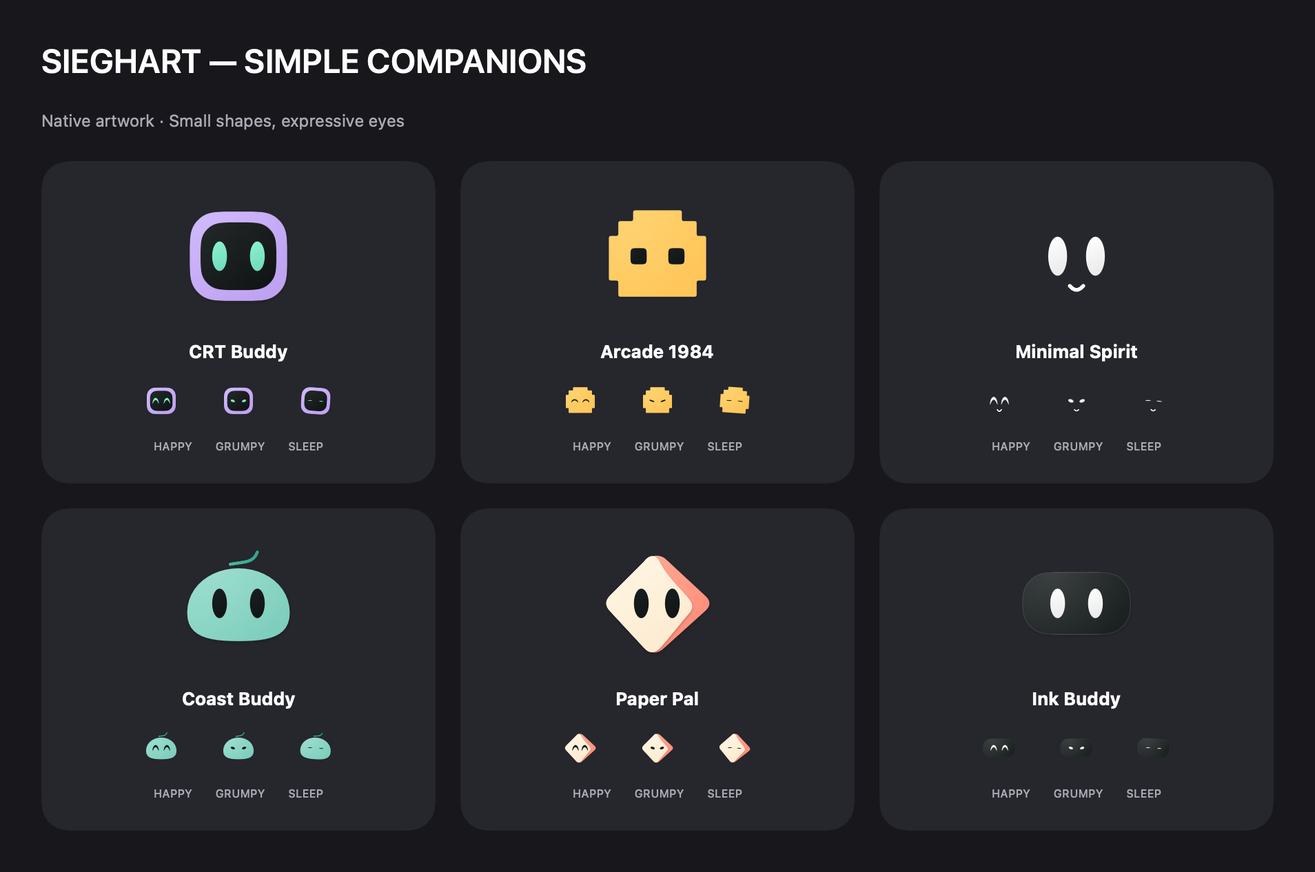
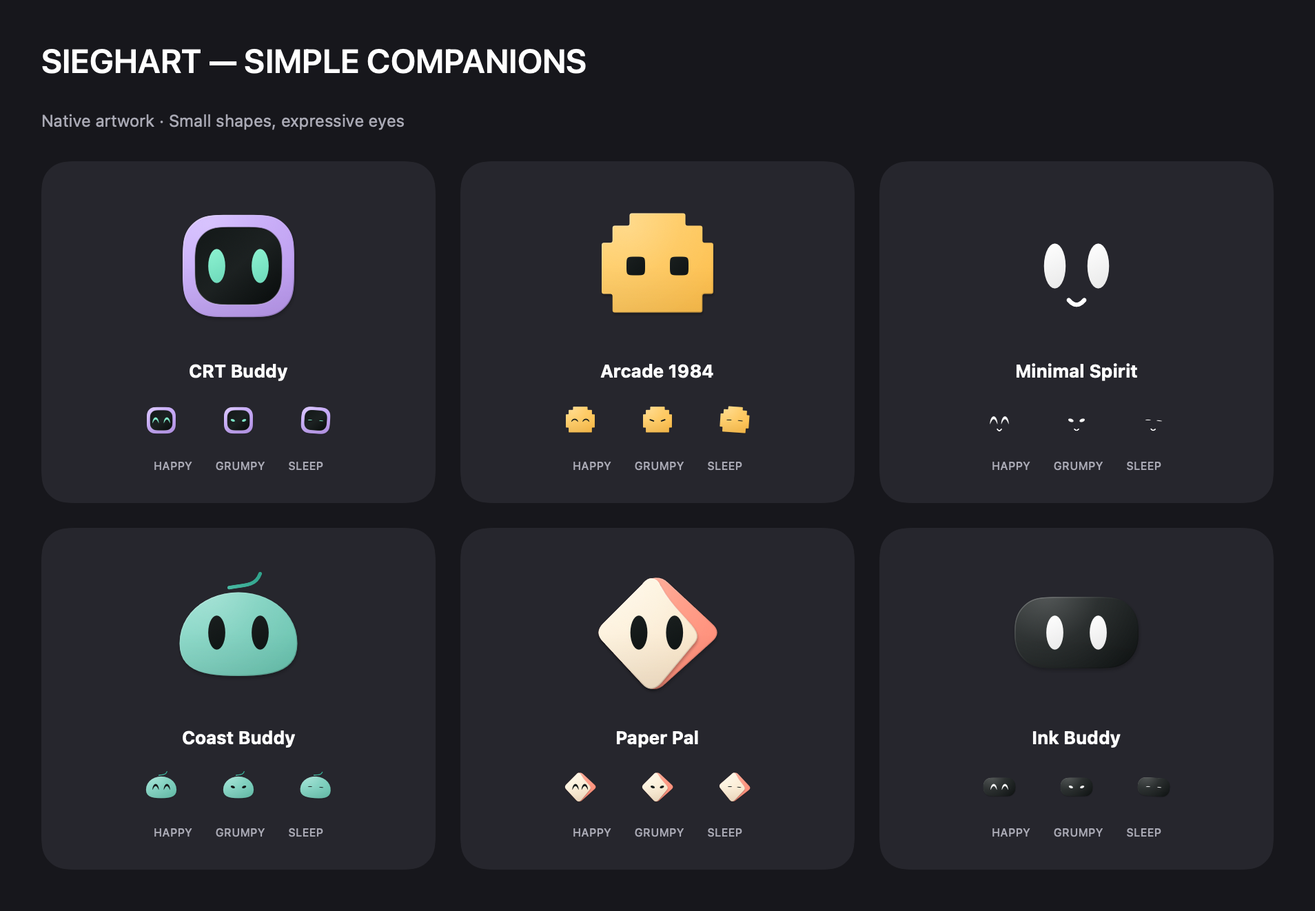
fix: preserve background activation and sharpen companion artwork

diff --git a/Sieghart/Sieghart/CompanionAvatars.swift b/Sieghart/Sieghart/CompanionAvatars.swift
@@ -119,6 +119,7 @@ struct CompanionMotion: Equatable {
 }
 
 struct CompanionFace: View {
+    var renderSize: CGFloat = 42
     var avatar: CompanionAvatar = .crtBuddy
     var blinking = false
     var focusing = false
@@ -147,7 +148,7 @@ struct CompanionFace: View {
     var body: some View {
         SimpleCompanionFace(avatar: avatar, openness: expression.open, joy: expression.joy, tilt: expression.tilt,
                             gaze: CGSize(width: min(4, max(-4, gaze.width)), height: min(3, max(-3, gaze.height))))
-            .frame(width: 42, height: 42)
+            .frame(width: renderSize, height: renderSize)
             .animation(animates && !reduceMotion ? .spring(response: 0.32, dampingFraction: 0.82) : nil, value: mood)
             .animation(animates && !reduceMotion ? .spring(response: 0.32, dampingFraction: 0.82) : nil, value: joyful)
             .animation(animates && !reduceMotion ? .spring(response: 0.32, dampingFraction: 0.85) : nil, value: gaze)
@@ -200,30 +201,32 @@ private struct SimpleCompanionFace: View, Animatable {
         }
     }
 
-    // Restrained matte lighting and layered edges give the simple shapes
-    // depth. The cream front and coral fold are separate curved paper planes.
+    // Draw light on the native paths at the final display size. Clipped edge
+    // shading gives a matte rounded surface without enlarging a small canvas.
     private func fillShell(_ path: Path, in context: GraphicsContext, colors: [Color], shadow: CGFloat = 1.2) {
         context.drawLayer { layer in
-            layer.addFilter(.shadow(color: .black.opacity(colorScheme == .dark ? 0.18 : 0.07), radius: shadow, x: 0.4, y: 1.1))
+            layer.addFilter(.shadow(color: .black.opacity(colorScheme == .dark ? 0.25 : 0.10), radius: shadow, x: 0.4, y: 1.4))
             layer.fill(path, with: .linearGradient(Gradient(colors: colors), startPoint: CGPoint(x: 20 + gaze.width, y: 15 + gaze.height), endPoint: CGPoint(x: 76, y: 85)))
         }
-        context.fill(path, with: .radialGradient(Gradient(colors: [.white.opacity(0.09), .clear]), center: CGPoint(x: 32 + gaze.width * 0.5, y: 28 + gaze.height * 0.5), startRadius: 2, endRadius: 55))
+        context.fill(path, with: .radialGradient(Gradient(colors: [.white.opacity(0.22), .white.opacity(0.06), .clear]), center: CGPoint(x: 29 + gaze.width * 0.5, y: 21 + gaze.height * 0.5), startRadius: 0, endRadius: 67))
+        var edge = context
+        edge.clip(to: path)
+        edge.stroke(path, with: .linearGradient(Gradient(colors: [.white.opacity(0.25), .clear, .black.opacity(0.18)]), startPoint: CGPoint(x: 22, y: 15), endPoint: CGPoint(x: 70, y: 83)), lineWidth: 1.3)
+        edge.fill(path, with: .linearGradient(Gradient(stops: [.init(color: .clear, location: 0.5), .init(color: .black.opacity(0.06), location: 1)]), startPoint: CGPoint(x: 48, y: 15), endPoint: CGPoint(x: 48, y: 81)))
     }
 
     private func drawBody(in context: GraphicsContext) {
         switch avatar {
         case .crtBuddy:
             let shell = Path(roundedRect: CGRect(x: 12, y: 15, width: 72, height: 66), cornerRadius: 21)
-            fillShell(shell, in: context, colors: [Color(red: 0.80, green: 0.70, blue: 0.99), Color(red: 0.74, green: 0.63, blue: 0.94)])
-            context.stroke(shell, with: .color(.white.opacity(0.15)), lineWidth: 0.5)
+            fillShell(shell, in: context, colors: [Color(red: 0.81, green: 0.71, blue: 1), Color(red: 0.72, green: 0.59, blue: 0.92)])
             let visor = Path(roundedRect: CGRect(x: 20, y: 23, width: 56, height: 50), cornerRadius: 17)
-            context.fill(visor, with: .linearGradient(Gradient(colors: [Color(red: 0.13, green: 0.15, blue: 0.15), Color(red: 0.065, green: 0.08, blue: 0.08)]), startPoint: CGPoint(x: 28, y: 25), endPoint: CGPoint(x: 68, y: 71)))
-            context.stroke(visor, with: .color(.black.opacity(0.13)), lineWidth: 0.65)
+            context.fill(visor, with: .linearGradient(Gradient(colors: [Color(red: 0.08, green: 0.10, blue: 0.10), Color(red: 0.11, green: 0.13, blue: 0.13), Color(red: 0.045, green: 0.06, blue: 0.06)]), startPoint: CGPoint(x: 28, y: 25), endPoint: CGPoint(x: 68, y: 71)))
+            context.stroke(visor, with: .linearGradient(Gradient(colors: [.black.opacity(0.32), .white.opacity(0.18)]), startPoint: CGPoint(x: 48, y: 23), endPoint: CGPoint(x: 48, y: 73)), lineWidth: 0.8)
         case .arcade1984:
             let points: [CGPoint] = [(30,14),(66,14),(66,22),(77,22),(77,33),(84,33),(84,66),(77,66),(77,78),(19,78),(19,66),(12,66),(12,33),(19,33),(19,22),(30,22)].map { CGPoint(x: $0.0, y: $0.1) }
             let shell = Self.roundedPolygon(points, radius: 1.5)
-            fillShell(shell, in: context, colors: [Color(red: 1, green: 0.81, blue: 0.39), Color(red: 1, green: 0.77, blue: 0.34)], shadow: 0.65)
-            context.stroke(shell, with: .color(.white.opacity(0.12)), lineWidth: 0.5)
+            fillShell(shell, in: context, colors: [Color(red: 1, green: 0.82, blue: 0.43), Color(red: 0.99, green: 0.74, blue: 0.29)], shadow: 0.65)
         case .minimalSpirit: break
         case .coastBuddy:
             var pebble = Path()
@@ -232,7 +235,7 @@ private struct SimpleCompanionFace: View, Animatable {
             pebble.addCurve(to: CGPoint(x: 86, y: 55), control1: CGPoint(x: 68, y: 22), control2: CGPoint(x: 86, y: 35))
             pebble.addCurve(to: CGPoint(x: 48, y: 76), control1: CGPoint(x: 86, y: 73), control2: CGPoint(x: 70, y: 76))
             pebble.addCurve(to: CGPoint(x: 10, y: 55), control1: CGPoint(x: 26, y: 76), control2: CGPoint(x: 10, y: 73))
-            fillShell(pebble, in: context, colors: [Color(red: 0.58, green: 0.86, blue: 0.80), Color(red: 0.48, green: 0.80, blue: 0.73)])
+            fillShell(pebble, in: context, colors: [Color(red: 0.57, green: 0.87, blue: 0.81), Color(red: 0.40, green: 0.75, blue: 0.67)])
             var curl = Path(); curl.move(to: CGPoint(x: 42, y: 19))
             curl.addCurve(to: CGPoint(x: 62, y: 10), control1: CGPoint(x: 53, y: 17), control2: CGPoint(x: 59, y: 18))
             context.stroke(curl, with: .linearGradient(Gradient(colors: [Color(red: 0.28, green: 0.72, blue: 0.63), Color(red: 0.19, green: 0.64, blue: 0.55)]), startPoint: CGPoint(x: 42, y: 19), endPoint: CGPoint(x: 62, y: 10)), style: StrokeStyle(lineWidth: 2.3, lineCap: .round))
@@ -260,12 +263,15 @@ private struct SimpleCompanionFace: View, Animatable {
             front.addQuadCurve(to: CGPoint(x: 13, y: 42), control: CGPoint(x: 7, y: 48))
             front.addLine(to: CGPoint(x: 38, y: 17)); front.addQuadCurve(to: CGPoint(x: 44, y: 13), control: CGPoint(x: 41, y: 13))
             front.closeSubpath()
-            fillShell(front, in: context, colors: [Color(red: 1, green: 0.96, blue: 0.88), Color(red: 0.99, green: 0.91, blue: 0.80)], shadow: 0.8)
-            context.stroke(front, with: .color(.white.opacity(0.14)), lineWidth: 0.5)
+            fillShell(front, in: context, colors: [Color(red: 1, green: 0.97, blue: 0.90), Color(red: 0.97, green: 0.88, blue: 0.76)], shadow: 0.8)
+            var foldEdge = Path()
+            foldEdge.move(to: CGPoint(x: 50, y: 18))
+            foldEdge.addCurve(to: CGPoint(x: 70, y: 43), control1: CGPoint(x: 56, y: 29), control2: CGPoint(x: 63, y: 35))
+            foldEdge.addCurve(to: CGPoint(x: 70, y: 57), control1: CGPoint(x: 75, y: 49), control2: CGPoint(x: 75, y: 52))
+            context.stroke(foldEdge, with: .linearGradient(Gradient(colors: [.white.opacity(0.28), Color(red: 0.67, green: 0.37, blue: 0.29).opacity(0.13)]), startPoint: CGPoint(x: 50, y: 18), endPoint: CGPoint(x: 70, y: 57)), lineWidth: 0.75)
         case .inkBuddy:
             let shell = Path(roundedRect: CGRect(x: 8, y: 25, width: 80, height: 46), cornerRadius: 20)
-            fillShell(shell, in: context, colors: [Color(red: 0.16, green: 0.18, blue: 0.18), Color(red: 0.10, green: 0.12, blue: 0.12)])
-            if colorScheme == .dark { context.stroke(shell, with: .color(.white.opacity(0.10)), lineWidth: 0.65) }
+            fillShell(shell, in: context, colors: [Color(red: 0.16, green: 0.18, blue: 0.18), Color(red: 0.065, green: 0.08, blue: 0.08)])
         }
     }
 
@@ -307,7 +313,7 @@ private struct SimpleCompanionFace: View, Animatable {
     private static var menuImages: [CompanionAvatar: NSImage] = [:]
     static func menuBarImage(for avatar: CompanionAvatar) -> NSImage? {
         if let cached = menuImages[avatar] { return cached }
-        let renderer = ImageRenderer(content: CompanionFace(avatar: avatar).environment(\.colorScheme, avatar == .minimalSpirit ? .light : .dark))
+        let renderer = ImageRenderer(content: CompanionFace(renderSize: 22, avatar: avatar).environment(\.colorScheme, avatar == .minimalSpirit ? .light : .dark))
         renderer.scale = 2
         guard let cg = renderer.cgImage else { return nil }
         let image = NSImage(cgImage: cg, size: NSSize(width: 22, height: 22))
@@ -336,9 +342,9 @@ struct CompanionCharacter: View {
             let reaction = joyful ? CompanionMood.happy : mood
             let time = previewTime ?? context.date.timeIntervalSinceReferenceDate
             let motion = CompanionMotion.sample(time: time, size: size, avatar: avatar, mood: reaction, listening: listening, strolling: strolling, animates: moves)
-            CompanionFace(avatar: avatar, focusing: focusing, joyful: joyful, gaze: moves ? gaze : .zero, eyeOpen: motion.eyeOpen,
+            CompanionFace(renderSize: size, avatar: avatar, focusing: focusing, joyful: joyful, gaze: moves ? gaze : .zero, eyeOpen: motion.eyeOpen,
                           listening: listening, motionTime: time, mood: reaction, animates: moves)
-                .scaleEffect(x: size / 42 * motion.scaleX, y: size / 42 * motion.scaleY)
+                .scaleEffect(x: motion.scaleX, y: motion.scaleY)
                 .rotation3DEffect(.degrees(moves ? -gaze.height * 1.5 : 0), axis: (x: 1, y: 0, z: 0), perspective: 0.35)
                 .rotation3DEffect(.degrees(moves ? gaze.width * 1.4 : 0), axis: (x: 0, y: 1, z: 0), perspective: 0.35)
                 .rotationEffect(.degrees(motion.rotation))

diff --git a/Sieghart/Tests/InteractionChecks.swift b/Sieghart/Tests/InteractionChecks.swift
@@ -202,6 +202,18 @@ struct InteractionChecks {
         precondition(notch.isVisible && activation.lastShortcutActivation != nil)
         notch.hide()
         activation.recordingShortcut = .companion
+        // Closing the settings surface during recording must restore both
+        // event backends. Feed its notification without opening a real window.
+        NotificationCenter.default.post(name: NSWindow.willCloseNotification, object: nil)
+        try await Task.sleep(for: .milliseconds(220))
+        precondition(activation.recordingShortcut == nil)
+        activation.receiveHotkey(.companion, eventTime: 210)
+        precondition(notch.isVisible, "Companion activation must survive closing the settings window")
+        notch.hide()
+        activation.receiveShortcutEvent(keyCode: ShortcutChord.companion.keyCode, flags: ShortcutChord.companion.flags, eventTime: 211)
+        precondition(notch.isVisible, "The monitor fallback must survive window closure too")
+        notch.hide()
+        activation.recordingShortcut = .companion
         activation.recoverShortcuts()
         precondition(activation.recordingShortcut == nil)
         precondition(activation.companionShortcut == .companion && activation.voiceShortcut == .voice)

diff --git a/Sieghart/Sieghart/WorkspaceView.swift b/Sieghart/Sieghart/WorkspaceView.swift
@@ -185,6 +185,8 @@ struct ContentView: View {
             Divider()
             PreferenceRow("Voice shortcut", detail: "Record keys, or press and release only modifiers such as Option + Command.") { ShortcutRecorder(action: .voice) }
             Text(activation.voiceShortcutStatus).font(.caption).foregroundStyle(CompanionStyle.muted).frame(maxWidth: .infinity, alignment: .leading)
+            Text("Close this window to keep Sieghart and its shortcuts in the menu bar. Choose Quit to stop the app.")
+                .font(.caption).foregroundStyle(CompanionStyle.muted)
             HStack {
                 if let date = activation.lastShortcutActivation {
                     Text("Last shortcut received at \(date.formatted(date: .omitted, time: .shortened))").font(.caption).foregroundStyle(CompanionStyle.muted)

diff --git a/Sieghart/Sieghart/ActivationCore.swift b/Sieghart/Sieghart/ActivationCore.swift
@@ -91,7 +91,9 @@ final class ActivationController: ObservableObject {
     }
 
     private func observeShortcutLifecycle(workspace suppliedWorkspace: NotificationCenter?) {
-        for name in [NSApplication.didBecomeActiveNotification, NSApplication.didResignActiveNotification] {
+        for name in [NSApplication.didBecomeActiveNotification, NSApplication.didResignActiveNotification,
+                     NSApplication.didHideNotification, NSApplication.didUnhideNotification,
+                     NSWindow.willCloseNotification] {
             appObservers.append(NotificationCenter.default.addObserver(forName: name, object: nil, queue: .main) { [weak self] _ in
                 MainActor.assumeIsolated { self?.scheduleShortcutRecovery() }
             })

diff --git a/Sieghart/Tests/CompanionPreview.swift b/Sieghart/Tests/CompanionPreview.swift
@@ -16,7 +16,7 @@ import UniformTypeIdentifiers
                     GridRow {
                         ForEach(Array(CompanionAvatar.allCases[row * 3 ..< row * 3 + 3])) { avatar in
                             VStack(spacing: 14) {
-                                CompanionCharacter(size: 94, avatar: avatar, animates: time != nil,
+                                CompanionCharacter(size: time == nil ? (dark ? 108 : 160) : 94, avatar: avatar, animates: time != nil,
                                     gaze: CGSize(width: sin((time ?? 0) * 1.3) * 3, height: cos((time ?? 0) * 1.1) * 1.5), mood: sleeping ? .asleep : .idle, previewTime: time)
                                 Text(avatar.name).font(.headline)
                                 HStack(spacing: 28) {

diff --git a/Sieghart/Sieghart/SieghartApp.swift b/Sieghart/Sieghart/SieghartApp.swift
@@ -2,6 +2,7 @@ import SwiftUI
 
 @main
 struct SieghartApp: App {
+    @NSApplicationDelegateAdaptor(ResidentAppDelegate.self) private var appDelegate
     @StateObject private var sensor: SensorViewModel
     @StateObject private var assistant: AssistantViewModel
     @StateObject private var notch: NotchWidgetController
@@ -40,6 +41,7 @@ struct SieghartApp: App {
         _preferences = StateObject(wrappedValue: preferences)
         _codexUsage = StateObject(wrappedValue: codexUsage)
         _aiUsage = StateObject(wrappedValue: aiUsage)
+        appDelegate.activation = activation
     }
 
     var body: some Scene {

diff --git a/Sieghart/Sieghart/AppLifecycle.swift b/Sieghart/Sieghart/AppLifecycle.swift
@@ -1,0 +1,12 @@
+import AppKit
+
+/// The window is a settings surface; activation belongs to the resident app.
+@MainActor
+final class ResidentAppDelegate: NSObject, NSApplicationDelegate {
+    var activation: ActivationController?
+
+    func applicationShouldTerminateAfterLastWindowClosed(_ sender: NSApplication) -> Bool {
+        activation?.recoverShortcuts()
+        return false
+    }
+}

diff --git a/ROADMAP.md b/ROADMAP.md
@@ -1,12 +1,12 @@
 # Sieghart roadmap
 
-Updated October 6, 2026. This is the current execution plan; older Obsidian checkpoints remain historical. The user authorizes reference-level functional coverage with better usability and an integrated companion. Swift Student Challenge remains the first delivery; the complete Mac utility product continues afterward.
+Updated October 7, 2026. This is the current execution plan; older Obsidian checkpoints remain historical. The user authorizes reference-level functional coverage with better usability and an integrated companion. Core Mac utilities take priority over additional integrations. Swift Student Challenge remains the first delivery; the complete Mac utility product continues afterward.
 
 ## Status and release gates
 
 - **Sprint 1:** foundation, timer persistence and notch geometry delivered; visual iteration continued in Sprint 2.
 - **Sprint 2:** published as `db2ea4f` — implementation closeout: six companions, nine poses, repeated-touch moods, focus configuration, compact island, celebration, voice acknowledgement, shortcut recovery, tools entry, Codex quotas, local token counters and separate spending ledger. Build/headless checks are evidence of implementation, not real-Mac acceptance.
-- **Sprint 3:** in progress. First slice implemented: initial six-avatar onboarding, one-time local AI monitoring consent, installed-provider detection, background refresh, live AI island and the full reference dashboard. Automatic model pricing/FX, exact chart details, island interaction corrections and the glass presentation with smoother avatars are also implemented. Voice app launch/search and billing imports remain next.
+- **Sprint 3:** in progress. First slice implemented: initial six-avatar onboarding, one-time local AI monitoring consent, installed-provider detection, background refresh, live AI island and the full reference dashboard. Automatic model pricing/FX, exact chart details, island interaction corrections, installed-app voice launch and the glass presentation with smoother avatars are also implemented. Browser search and billing imports remain next.
 - **Open acceptance:** SG-001 companion/voice shortcuts after Spaces/full-screen; real notch placement/animation; microphone permission/recognition. The assistant does not run the app or open Xcode.
 - **Calendar:** hidden at the user's request; repair and reintroduction in S5, not a current release gate.
 - **Costs:** recorded charges are actual user-entered expenses; token prices produce estimates. Official model price tables and dated USD/BRL FX adapters are implemented and verified against live public responses. They calculate API-equivalent estimates. Invoice imports remain planned.
@@ -84,6 +84,12 @@ Updated October 6, 2026. This is the current execution plan; older Obsidian chec
 - Repeated full-screen shortcut report remains open (SG-001). Menu-bar agent metadata, application-target Carbon dispatch and authorized event-tap health recovery address the setup. Actual input and visibility acceptance remains required.
 - Three additional issue photos archived with SHA-256 verification. README, production previews, bug tracker and Obsidian checkpoint updated. Sprint 3 remains active; Sprint 4 has not started.
 
+### Window-close activation and companion quality — October 7, 2026
+
+- The user clarified that “closed” means the red window-close button. A resident app delegate owns activation independently of the settings window and explicitly refuses last-window termination. Window-close/hide lifecycle recovery clears abandoned shortcut recording; Quit remains explicit termination. Isolated event tests cover both companion delivery routes after a simulated window close. Real window-close, voice and full-screen delivery remain SG-001 acceptance.
+- The artwork previously rendered on a 42-point Canvas and scaled up. Every companion now draws at its final display size; only the small breathing/squash transform remains. Diffuse light, clipped edge shading, a recessed visor and a lit paper fold improve matte depth while retaining the approved silhouettes/palette and all motion/accessibility behavior.
+- Main-window, island and menu production previews refreshed offscreen; the two latest avatar-quality photos are archived with hashes. Build, eight isolated groups and built-package checks passed without running the app or hardware.
+
 ### Next in Sprint 3
 
 1. Browser search through a deterministic action adapter. Installed-app voice launch is now implemented; physical speech/app-launch acceptance remains open.
@@ -104,6 +110,19 @@ Updated October 6, 2026. This is the current execution plan; older Obsidian chec
 | S5 | Calendar repair/reminders, notifications, selected-folder downloads, clipboard/shelf and core capture tools. |
 | S6 | Windows/Dock, keyboard and mouse modules, reversible preference changes and conflict handling. |
 | S7 | Maintenance, package/app updates, media/recording, advanced process/network/fan tools; module-specific verification. |
+
+## Companion usefulness after core utilities
+
+This is a future product direction, not an active integration sprint. First deliver and validate the utility sequence above.
+
+| Future companion role | Behavior | Dependency |
+| --- | --- | --- |
+| Quiet context | Express focus/break progress, AI working/completed and download completion through small gestures and optional brief messages. | Real timer, AI and download events; no fabricated activity. |
+| Quick actions | Companion entry to open an app, control audio, keep the Mac awake and revisit a completed task. | Verified utility actions and explicit user interaction. |
+| Calm reminders | Optional break/reminder nudges with quiet hours and a dismiss action; never starts focus automatically. | Reminder module and notification preferences. |
+| Optional GitHub | Selected-repository PR review requests and build results, with a direct link to the relevant item. Read-only first; opt-in and unavailable/offline states. | Core utilities complete, separate account consent and adapter. |
+
+GitHub makes sense as project context for people who develop software. It is optional and does not replace the primary Mac utilities or the offline companion journey. No GitHub connection is implemented or enabled in this round.
 
 ## Complete reference coverage — 77 modules
 

diff --git a/README.md b/README.md
@@ -36,7 +36,7 @@ Choose **Timer**, **Pomodoro** or **Stopwatch** in the app’s **Timers tab**, t
 
 ![The six Sieghart companions and their reactions](Sieghart/Design/Concepts/avatar-reactions-preview.png)
 
-*Production native shapes based on the user-approved Simple Companions board, with matte light, soft shadow and a curved coral paper fold. Eyes and expressions interpolate directly; no bitmap pose swapping.*
+*Production native shapes based on the user-approved Simple Companions board, with matte light, soft shadow and a curved coral paper fold. Each canvas draws at its final display size for sharp edges in both the app and island. Eyes and expressions interpolate directly; no bitmap pose swapping.*
 
 ![Simple companions in motion](Sieghart/Design/Concepts/simple-companions-motion.gif)
 
@@ -117,7 +117,7 @@ Select the **Sieghart** scheme and **My Mac**, then run. Configure signing if Xc
 
 The menu bar also provides access to the widget and app. In Activation, press a shortcut recorder and enter any key combination; release modifier-only keys to save. Companion and voice bindings can be disabled separately. Impact gestures are off by default.
 
-The main window can be closed while Sieghart remains in the menu bar. A listen-only session event tap now handles modifier gestures across apps and restarts after interruption; regular-key hotkeys keep the system global registration. An intermittent shortcut interruption is tracked in [SG-001](Sieghart/BUGS.md). Abandoned recording restores activation. Healthy global registrations stay active across app/Space changes; permission changes or failed delivery setup trigger recovery. With an existing keyboard grant, both global delivery paths work with duplicate suppression. The reported intermittent case still needs a physical Mac check.
+Closing the main window with its red button keeps Sieghart in the menu bar. An app delegate retains activation independently of the window and explicitly keeps the process running after the last window closes. Window closure cancels an unfinished shortcut recorder and recovers activation; **Quit** stops the app. A listen-only session event tap handles modifier gestures across apps and restarts after interruption; regular-key hotkeys keep the system global registration. An intermittent shortcut interruption is tracked in [SG-001](Sieghart/BUGS.md). Healthy global registrations stay active across app/Space changes; permission changes or failed delivery setup trigger recovery. With an existing keyboard grant, both global delivery paths work with duplicate suppression. Closing the actual window and using both bindings in other apps/full-screen still needs a physical Mac check.
 
 ## Voice and local data
 

diff --git a/Sieghart/Design/Concepts/avatar-simple-studies.md b/Sieghart/Design/Concepts/avatar-simple-studies.md
@@ -25,3 +25,10 @@ Method: built-in image generation, original image with no input reference. Outpu
 ### Prompt
 
 Create a NEW minimal character comparison board for Sieghart. Absolutely SIMPLE tiny desktop mascots, closer to a friendly pair of eyes in a clean small blob than a detailed robot. Flat 2D vector-like forms, no 3D rendering, no shading, no mechanical parts, no textures, no humanoid body, no articulated joints, no gloves, no shoes, no complex accessories. White/off-white page with six small characters in a clean 3 by 2 grid. Each main character uses ONE simple silhouette, TWO rounded expressive eyes, at most one tiny mouth. Maximum two flat colors per character. Let negative space dominate. Display one normal face and two tiny expression variations per cell; labels only exact names. CRT BUDDY: a very simple lavender rounded-square face with black interior and mint oval eyes, no antenna or buttons. ARCADE 1984: a very simple small amber stepped-square/pixel blob with two dark square eyes, no gamepad or controls. MINIMAL SPIRIT: just two black soft vertical oval eyes with a tiny curve, floating without a body. COAST BUDDY: a simple seafoam rounded pebble with two black oval eyes, one extremely small single-stroke cap curve as identity cue. PAPER PAL: a simple ivory/coral folded diamond silhouette with two black eyes, no origami complexity. INK BUDDY: a tiny charcoal rounded capsule with two white oval eyes, no bow tie or antenna. Friendly low-key expressions, mature minimal interface mascot, NOT toy robots, NOT Disney/Pixar, NOT fluffy 3D. Main characters should be small and readable at 24 pixels. Title 'SIEGHART — SIMPLE COMPANIONS'. Make clean polished honest minimalism, no app chrome or watermarks.
+
+
+## Final-size rendering — October 7, 2026
+
+The latest quality report identified softened edges and insufficient material depth. Production had been drawing every Canvas at 42 points and magnifying it. It now draws at the actual view size; the remaining scale transform is only small animated breath/squash. The same paths, palette, eye interpolation and motion remain. Diffuse top-left light, clipped directional edge shading, a recessed visor and a lit paper crease improve the matte finish on white and dark surfaces.
+
+The light board renders larger native heroes for close inspection; the same production views appear in the main app/island/menu previews. These are preview files outside app resources. No bitmap replacement or 3D rig is used.

diff --git a/Sieghart/README.md b/Sieghart/README.md
@@ -138,3 +138,12 @@ The audio checks use a mock backend and allocated sample buffers, covering the a
 
 
 After a CLI build, run `bash Sieghart/Tests/verify-built-app.sh /path/to/Sieghart.app` to check built privacy descriptions, agent metadata and signature without launching the app.
+
+
+## October 7 — Resident activation and native-size companion rendering
+
+Closing the main window with its red button must leave both shortcuts available. `ResidentAppDelegate` retains activation independently of the settings scene and explicitly keeps the process running after the last window closes. Window-close/hide recovery clears unfinished shortcut recording. Explicit Quit still terminates. Isolated tests post a close event and deliver companion activation through both routing backends; actual window closure and voice/full-screen acceptance stay open in SG-001. No background helper or login-item registration was introduced.
+
+The character Canvas previously drew at 42 points and then scaled to each display size. `CompanionFace.renderSize` now supplies the real size, including native menu icons. The animated wrapper only applies breathing/squash scale. Matte diffuse light, clipped edge shading, visor depth and the curved paper fold preserve the approved Simple Companions palette. Shared artwork updates onboarding, Appearance, menus and island. [Final-size depth preview](Design/Concepts/simple-companions-depth-preview.png).
+
+Universal signed build, built-package checks and eight isolated groups passed. Production artwork/screens and 20 fps motion were rendered offscreen. No app/Xcode window, sensor, microphone, system-audio capture or actual shortcut registration was started. Two user quality photos are retained in the issue archive. Core utilities remain ahead of future avatar/GitHub integrations; Sprint 3 stays active and Sprint 4 has not started.

diff --git a/Sieghart/Design/island-layout.md b/Sieghart/Design/island-layout.md
@@ -58,3 +58,10 @@ The generated bundle lacked the system-audio privacy string. The explicit merged
 The native panel overlaps the top screen edge by one backing pixel and has no contour stroke. The first-click interaction outline is removed; keyboard focus keeps a soft surface cue. All six companions breathe/sway while asleep and float a fading “z”; motion preferences remain respected. [Production sleep motion](Concepts/simple-companions-sleep.gif).
 
 Installed-app voice launch and menu-bar agent/full-screen input setup are implemented. Build/mocked tests/offscreen previews confirm implementation; permission prompts, WhatsApp/AirPods playback, actual full-screen shortcuts and physical top-edge alignment remain Mac acceptance gates. No app window, microphone, system-audio capture or real shortcut registration was started for verification.
+
+
+## October 7 — Companion quality and resident activation
+
+All companion surfaces use a Canvas at their final display size. Only small motion transforms remain; matte diffuse light, clipped edges and the paper fold give the approved silhouettes depth without magnified low-resolution artwork. [Light board](Concepts/simple-companions-depth-preview.png). Main-window, island and menu renders were refreshed.
+
+The user clarified the shortcut failure happens after the red window-close button. An explicit resident delegate keeps activation outside the settings scene and declines last-window termination; close/hide recovery releases abandoned recording. The two companion routing backends pass a simulated close check. Actual window-close/voice/full-screen delivery remains SG-001 acceptance; explicit Quit stops the app.
